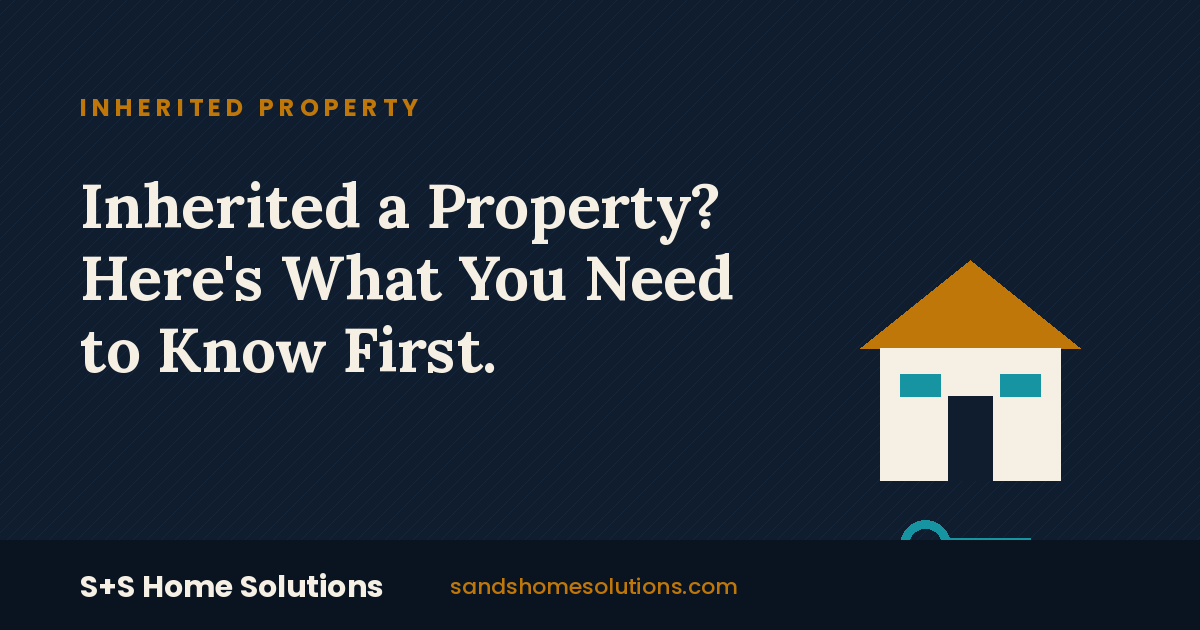
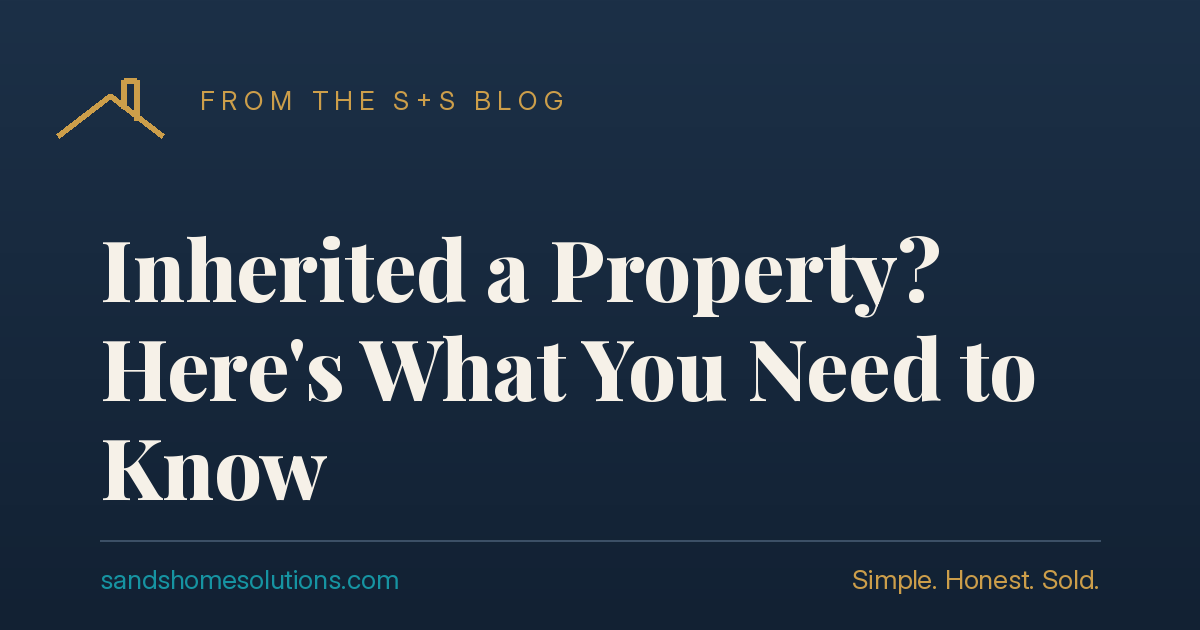
Add branded og:image previews for all posts, replace family photo default on the 6 live posts

diff --git a/blog/sample-first-post.html b/blog/sample-first-post.html
@@ -17,13 +17,13 @@
 <meta property="og:url" content="https://sandshomesolutions.com/blog/sample-first-post.html" />
 <meta property="og:title" content="5 Things to Fix Before Selling (And 12 You Can Skip)" />
 <meta property="og:description" content="An honest breakdown of which repairs actually help you sell, and which ones are a waste of money." />
-<meta property="og:image" content="https://sandshomesolutions.com/family_photo_square.jpg" />
+<meta property="og:image" content="https://sandshomesolutions.com/blog/images/sample-first-post.png" />
 <meta property="og:site_name" content="S+S Home Solutions" />
 
 <meta name="twitter:card" content="summary_large_image" />
 <meta name="twitter:title" content="5 Things to Fix Before Selling (And 12 You Can Skip)" />
 <meta name="twitter:description" content="An honest breakdown of which repairs actually help you sell, and which ones are a waste of money." />
-<meta name="twitter:image" content="https://sandshomesolutions.com/family_photo_square.jpg" />
+<meta name="twitter:image" content="https://sandshomesolutions.com/blog/images/sample-first-post.png" />
 
 <!-- Article schema -->
 <script type="application/ld+json">
@@ -32,7 +32,7 @@
   "@type": "Article",
   "headline": "5 Things to Fix Before Selling (And 12 You Can Skip)",
   "description": "An honest breakdown of which repairs actually help you sell, and which ones are a waste of money.",
-  "image": "https://sandshomesolutions.com/family_photo_square.jpg",
+  "image": "https://sandshomesolutions.com/blog/images/sample-first-post.png",
   "author": {
     "@type": "Organization",
     "name": "S+S Home Solutions",
@@ -43,7 +43,7 @@
     "name": "S+S Home Solutions",
     "logo": {
       "@type": "ImageObject",
-      "url": "https://sandshomesolutions.com/family_photo_square.jpg"
+      "url": "https://sandshomesolutions.com/blog/images/sample-first-post.png"
     }
   },
   "datePublished": "2026-06-30",

diff --git a/blog/foreclosure-quick-sale.html b/blog/foreclosure-quick-sale.html
@@ -16,7 +16,7 @@
 <meta property="og:url" content="https://sandshomesolutions.com/blog/foreclosure-quick-sale.html" />
 <meta property="og:title" content="Facing Foreclosure? Here's How a Quick Home Sale Could Help You Get Ahead of It" />
 <meta property="og:description" content="Foreclosure is a process, not an instant event. Here's how a quick sale could help you get ahead of it and protect your credit." />
-<meta property="og:image" content="https://sandshomesolutions.com/family_photo_square.jpg" />
+<meta property="og:image" content="https://sandshomesolutions.com/blog/images/foreclosure-quick-sale.png" />
 <meta property="og:site_name" content="S+S Home Solutions" />
 
 <script type="application/ld+json">
@@ -25,9 +25,9 @@
   "@type": "Article",
   "headline": "Facing Foreclosure? Here's How a Quick Home Sale Could Help You Get Ahead of It",
   "description": "Foreclosure is a process, not an instant event. Here's how a quick sale could help you get ahead of it and protect your credit.",
-  "image": "https://sandshomesolutions.com/family_photo_square.jpg",
+  "image": "https://sandshomesolutions.com/blog/images/foreclosure-quick-sale.png",
   "author": { "@type": "Organization", "name": "S+S Home Solutions", "url": "https://sandshomesolutions.com/" },
-  "publisher": { "@type": "Organization", "name": "S+S Home Solutions", "logo": { "@type": "ImageObject", "url": "https://sandshomesolutions.com/family_photo_square.jpg" } },
+  "publisher": { "@type": "Organization", "name": "S+S Home Solutions", "logo": { "@type": "ImageObject", "url": "https://sandshomesolutions.com/blog/images/foreclosure-quick-sale.png" } },
   "datePublished": "2026-07-01",
   "mainEntityOfPage": "https://sandshomesolutions.com/blog/foreclosure-quick-sale.html"
 }

diff --git a/blog/how-a-cash-home-sale-works.html b/blog/how-a-cash-home-sale-works.html
@@ -16,7 +16,7 @@
 <meta property="og:url" content="https://sandshomesolutions.com/blog/how-a-cash-home-sale-works.html" />
 <meta property="og:title" content="What Happens During a Cash Home Sale? A Step-by-Step Guide" />
 <meta property="og:description" content="Curious what actually happens when you sell for cash? Here's the honest, step-by-step process from first call to closing day." />
-<meta property="og:image" content="https://sandshomesolutions.com/family_photo_square.jpg" />
+<meta property="og:image" content="https://sandshomesolutions.com/blog/images/how-a-cash-home-sale-works.png" />
 <meta property="og:site_name" content="S+S Home Solutions" />
 
 <script type="application/ld+json">
@@ -25,9 +25,9 @@
   "@type": "Article",
   "headline": "What Happens During a Cash Home Sale? A Step-by-Step Guide",
   "description": "Curious what actually happens when you sell for cash? Here's the honest, step-by-step process from first call to closing day.",
-  "image": "https://sandshomesolutions.com/family_photo_square.jpg",
+  "image": "https://sandshomesolutions.com/blog/images/how-a-cash-home-sale-works.png",
   "author": { "@type": "Organization", "name": "S+S Home Solutions", "url": "https://sandshomesolutions.com/" },
-  "publisher": { "@type": "Organization", "name": "S+S Home Solutions", "logo": { "@type": "ImageObject", "url": "https://sandshomesolutions.com/family_photo_square.jpg" } },
+  "publisher": { "@type": "Organization", "name": "S+S Home Solutions", "logo": { "@type": "ImageObject", "url": "https://sandshomesolutions.com/blog/images/how-a-cash-home-sale-works.png" } },
   "datePublished": "2026-07-01",
   "mainEntityOfPage": "https://sandshomesolutions.com/blog/how-a-cash-home-sale-works.html"
 }

diff --git a/blog/realtor-fees-cost-breakdown.html b/blog/realtor-fees-cost-breakdown.html
@@ -16,7 +16,7 @@
 <meta property="og:url" content="https://sandshomesolutions.com/blog/realtor-fees-cost-breakdown.html" />
 <meta property="og:title" content="What Are Realtor Fees Really Costing You? A Straightforward Breakdown" />
 <meta property="og:description" content="Realtor commissions, closing costs, and repair demands add up fast. Here's an honest breakdown of what a traditional sale really costs you." />
-<meta property="og:image" content="https://sandshomesolutions.com/family_photo_square.jpg" />
+<meta property="og:image" content="https://sandshomesolutions.com/blog/images/realtor-fees-cost-breakdown.png" />
 <meta property="og:site_name" content="S+S Home Solutions" />
 
 <script type="application/ld+json">
@@ -25,9 +25,9 @@
   "@type": "Article",
   "headline": "What Are Realtor Fees Really Costing You? A Straightforward Breakdown",
   "description": "Realtor commissions, closing costs, and repair demands add up fast. Here's an honest breakdown of what a traditional sale really costs you.",
-  "image": "https://sandshomesolutions.com/family_photo_square.jpg",
+  "image": "https://sandshomesolutions.com/blog/images/realtor-fees-cost-breakdown.png",
   "author": { "@type": "Organization", "name": "S+S Home Solutions", "url": "https://sandshomesolutions.com/" },
-  "publisher": { "@type": "Organization", "name": "S+S Home Solutions", "logo": { "@type": "ImageObject", "url": "https://sandshomesolutions.com/family_photo_square.jpg" } },
+  "publisher": { "@type": "Organization", "name": "S+S Home Solutions", "logo": { "@type": "ImageObject", "url": "https://sandshomesolutions.com/blog/images/realtor-fees-cost-breakdown.png" } },
   "datePublished": "2026-07-01",
   "mainEntityOfPage": "https://sandshomesolutions.com/blog/realtor-fees-cost-breakdown.html"
 }

diff --git a/blog/selling-house-as-is.html b/blog/selling-house-as-is.html
@@ -16,7 +16,7 @@
 <meta property="og:url" content="https://sandshomesolutions.com/blog/selling-house-as-is.html" />
 <meta property="og:title" content="Selling Your Home As-Is: What It Really Means and Why It Might Be Right for You" />
 <meta property="og:description" content="No repairs, no renovations, no stress. Here's what selling as-is really means, and why it might be the smartest move for your situation." />
-<meta property="og:image" content="https://sandshomesolutions.com/family_photo_square.jpg" />
+<meta property="og:image" content="https://sandshomesolutions.com/blog/images/selling-house-as-is.png" />
 <meta property="og:site_name" content="S+S Home Solutions" />
 
 <script type="application/ld+json">
@@ -25,9 +25,9 @@
   "@type": "Article",
   "headline": "Selling Your Home As-Is: What It Really Means and Why It Might Be Right for You",
   "description": "No repairs, no renovations, no stress. Here's what selling as-is really means, and why it might be the smartest move for your situation.",
-  "image": "https://sandshomesolutions.com/family_photo_square.jpg",
+  "image": "https://sandshomesolutions.com/blog/images/selling-house-as-is.png",
   "author": { "@type": "Organization", "name": "S+S Home Solutions", "url": "https://sandshomesolutions.com/" },
-  "publisher": { "@type": "Organization", "name": "S+S Home Solutions", "logo": { "@type": "ImageObject", "url": "https://sandshomesolutions.com/family_photo_square.jpg" } },
+  "publisher": { "@type": "Organization", "name": "S+S Home Solutions", "logo": { "@type": "ImageObject", "url": "https://sandshomesolutions.com/blog/images/selling-house-as-is.png" } },
   "datePublished": "2026-07-01",
   "mainEntityOfPage": "https://sandshomesolutions.com/blog/selling-house-as-is.html"
 }

diff --git a/blog/inherited-property-guide.html b/blog/inherited-property-guide.html
@@ -27,7 +27,7 @@
   "description": "Inheriting a house comes with decisions most people aren't prepared for. Here's what to know before you decide what to do with it.",
   "image": "https://sandshomesolutions.com/blog/images/inherited-property-guide.png",
   "author": { "@type": "Organization", "name": "S+S Home Solutions", "url": "https://sandshomesolutions.com/" },
-  "publisher": { "@type": "Organization", "name": "S+S Home Solutions", "logo": { "@type": "ImageObject", "url": "https://sandshomesolutions.com/family_photo_square.jpg" } },
+  "publisher": { "@type": "Organization", "name": "S+S Home Solutions", "logo": { "@type": "ImageObject", "url": "https://sandshomesolutions.com/blog/images/inherited-property-guide.png" } },
   "datePublished": "2026-07-01",
   "mainEntityOfPage": "https://sandshomesolutions.com/blog/inherited-property-guide.html"
 }